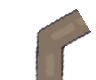
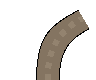
completed

Changed region(s): [[0.3438, 0.1, 0.875, 1.0], [0.5938, 0.25, 0.9688, 1.0]]

diff --git a/hlrData.py b/hlrData.py
@@ -136,7 +136,7 @@ unitsParameters = 	{	'' 				:	None,
 												'exp'		: 0,
 												'skills'	: [],
 												'weapons'	: ['gewehr98', 'lugerp08', 'bayonet' , None],
-												'icon' : pygame.image.load('gfx/units/german_infantry.png'), 
+												'icon'		: pygame.image.load('gfx/units/infantry.png'), 
 											},
 						'EC_infantry'	:	{	'name'		: 'Infantry',
 												'country'	: 'France',
@@ -148,7 +148,7 @@ unitsParameters = 	{	'' 				:	None,
 												'exp'		: 0,
 												'skills'	: [],
 												'weapons'	: ['leeEnfield', 'revolveur', 'bayonet', None],
-												'icon' : pygame.image.load('gfx/units/french_infantry.png') 
+												'icon'		 : pygame.image.load('gfx/units/infantry.png') 
 											},
 						'CP_eliteInf'	:	{	'name'		: 'Elite Infantry',
 												'country'	: 'Germany',
@@ -160,7 +160,7 @@ unitsParameters = 	{	'' 				:	None,
 												'exp'		: 0,
 												'skills'	: [],
 												'weapons'	: ['maxim', 'trenchKnife', None, None],
-												'icon' : pygame.image.load('gfx/units/german_eliteInfantry.png')
+												'icon'		 : pygame.image.load('gfx/units/eliteInfantry.png')
 											},
 						'EC_eliteInf'	:	{	'name'		: 'Elite Infantry',
 												'country'	: 'France',
@@ -172,7 +172,7 @@ unitsParameters = 	{	'' 				:	None,
 												'exp'		: 0,
 												'skills'	: [],
 												'weapons'	: ['wickers', 'trenchKnife', None, None],
-												'icon' : pygame.image.load('gfx/units/french_eliteInfantry.png') 
+												'icon' 		: pygame.image.load('gfx/units/eliteInfantry.png') 
 											},
 						'CP_cavalry'	:	{	'name'		: 'Cavalry',
 												'country'	: 'Germany',
@@ -184,7 +184,7 @@ unitsParameters = 	{	'' 				:	None,
 												'exp'		: 0,
 												'skills'	: [],
 												'weapons'	: ['gewehr98', 'sabre', None, None],
-												'icon' : pygame.image.load('gfx/units/german_cavalry.png') 
+												'icon'		 : pygame.image.load('gfx/units/cavalry.png') 
 											},
 						'EC_cavalry'	:	{	'name'		: 'Cavalry',
 												'country'	: 'France',
@@ -196,7 +196,7 @@ unitsParameters = 	{	'' 				:	None,
 												'exp'		: 0,
 												'skills'	: [],
 												'weapons'	: ['leeEnfield', 'sabre', None, None],
-												'icon' : pygame.image.load('gfx/units/french_cavalry.png') 
+												'icon'		 : pygame.image.load('gfx/units/cavalry.png') 
 											},
 						'CP_lArtillery'	:	{	'name'		: 'Light Artillery',
 												'country'	: 'Germany',
@@ -208,7 +208,7 @@ unitsParameters = 	{	'' 				:	None,
 												'exp'		: 0,
 												'skills'	: [],
 												'weapons'	: ['feldkanone16', None, None, None],
-												'icon' : pygame.image.load('gfx/units/german_lightArtillery.png') 
+												'icon'		 : pygame.image.load('gfx/units/lightArtillery.png') 
 											},
 						'EC_lArtillery'	:	{	'name'		: 'Light Artillery',
 												'country'	: 'France',
@@ -220,7 +220,7 @@ unitsParameters = 	{	'' 				:	None,
 												'exp'		: 0,
 												'skills'	: [],
 												'weapons'	: ['m1902', None, None, None],
-												'icon' : pygame.image.load('gfx/units/french_lightArtillery.png') 
+												'icon'		 : pygame.image.load('gfx/units/lightArtillery.png') 
 											},
 						'CP_mArtillery'	:	{	'name'		: 'Medium Artillery',
 												'country'	: 'Germany',
@@ -232,7 +232,7 @@ unitsParameters = 	{	'' 				:	None,
 												'exp'		: 0,
 												'skills'	: [],
 												'weapons'	: ['lefh', None, None, None],
-												'icon' : pygame.image.load('gfx/units/german_mediumArtillery.png') 
+												'icon'		 : pygame.image.load('gfx/units/mediumArtillery.png') 
 											},
 						'EC_mArtillery'	:	{	'name'		: 'Medium Artillery',
 												'country'	: 'France',
@@ -244,7 +244,7 @@ unitsParameters = 	{	'' 				:	None,
 												'exp'		: 0,
 												'skills'	: [],
 												'weapons'	: ['canon75', None, None, None],
-												'icon' : pygame.image.load('gfx/units/french_mediumArtillery.png') 
+												'icon' 		: pygame.image.load('gfx/units/mediumArtillery.png') 
 											},
 						'CP_hArtillery'	:	{	'name'		: 'Heavy Artillery',
 												'country'	: 'Germany',
@@ -256,7 +256,7 @@ unitsParameters = 	{	'' 				:	None,
 												'exp'		: 0,
 												'skills'	: [],
 												'weapons'	: ['morser', None, None, None],
-												'icon' : pygame.image.load('gfx/units/german_heavyArtillery.png') 
+												'icon'		 : pygame.image.load('gfx/units/heavyArtillery.png') 
 											},
 						'EC_hArtillery'	:	{	'name'		: 'Heavy Artillery',
 												'country'	: 'France',
@@ -268,7 +268,7 @@ unitsParameters = 	{	'' 				:	None,
 												'exp'		: 0,
 												'skills'	: [],
 												'weapons'	: ['canon155', None, None, None],
-												'icon' : pygame.image.load('gfx/units/french_heavyArtillery.png') 
+												'icon'		 : pygame.image.load('gfx/units/heavyArtillery.png') 
 											},
 						'CP_supplyCar' 	:	{	'name'		: 'SupplyCar',
 												'country'	: 'Germany',
@@ -280,7 +280,7 @@ unitsParameters = 	{	'' 				:	None,
 												'exp'		: 0,
 												'skills'	: [],
 												'weapons'	: [None, None, None, None],
-												'icon' : pygame.image.load('gfx/units/german_supplyCar.png') 
+												'icon' 		: pygame.image.load('gfx/units/supplyCar.png') 
 											},
 						'EC_supplyCar' 	:	{	'name'		: 'SupplyCar',
 												'country'	: 'France',
@@ -292,7 +292,7 @@ unitsParameters = 	{	'' 				:	None,
 												'exp'		: 0,
 												'skills'	: [],
 												'weapons'	: [None, None, None, None],
-												'icon' : pygame.image.load('gfx/units/french_supplyCar.png')
+												'icon'		 : pygame.image.load('gfx/units/supplyCar.png')
 											},
 						'CP_bunker'	 	:	{	'name'		: 'Bunker',
 												'country'	: 'Germany',
@@ -304,7 +304,7 @@ unitsParameters = 	{	'' 				:	None,
 												'exp'		: 0,
 												'skills'	: [],
 												'weapons'	: ['feldkanone16', None, None, None],
-												'icon' : pygame.image.load('gfx/units/german_bunker.png') 
+												'icon'		 : pygame.image.load('gfx/units/bunker.png') 
 											},
 						'EC_bunker'	 	:	{	'name'		: 'Bunker',
 												'country'	: 'France',
@@ -316,7 +316,7 @@ unitsParameters = 	{	'' 				:	None,
 												'exp'		: 0,
 												'skills'	: [],
 												'weapons'	: ['m1902', None, None, None],
-												'icon' : pygame.image.load('gfx/units/french_bunker.png') 
+												'icon' 		: pygame.image.load('gfx/units/bunker.png') 
 											}
 					}
 
@@ -478,6 +478,15 @@ weaponsParameters = 	{	'bayonet' 	:		{	'name'		: 'Bayonet',
 													'picture'	: pygame.image.load('gfx/weapons/canon155.png'), 
 												}
 						}
+
+def rot_center(image, angle):
+    """rotate an image while keeping its center and size"""
+    orig_rect = image.get_rect()
+    rot_image = pygame.transform.rotate(image, angle)
+    rot_rect = orig_rect.copy()
+    rot_rect.center = rot_image.get_rect().center
+    rot_image = rot_image.subsurface(rot_rect).copy()
+    return rot_image
 
 
 class colorList:

diff --git a/level.py b/level.py
@@ -2,6 +2,9 @@ import sys
 import json
 import time
 import pygame
+import numpy as np
+from PIL import Image
+import pygame.surfarray as surfarray
 from hlrData import *
 
 # --- Variables / Ressources ----------------------------------------------------------------------
@@ -47,18 +50,48 @@ class Unit():
 		if key:
 			data = unitsParameters[key]
 			self.name = data['name']
+			self.country = data['country']
+			self.armour = data['armour']
+			self.speed = data['speed']
+			self.weight = data['weight']
+			self.sight = data['sight']
+			self.fuel = data['fuel']
+			self.experience = 0
+			self.skills = []
+			self.weapons = []
 			self.maxSize = 10		# all units size 10?
 			self.currentSize = 10
-			self.fuel = data['fuel']
-			self.speed = data['speed']
-			self.sight = data['sight']
-			self.weapons = []
+			self.faction = 'CentralPowers' if self.country in ['Germany', 'Austria', 'Bulgaria', 'Ottoman'] else 'EntenteCordial'
 			for w in data['weapons']:
 				if w:
 					self.weapons.append(Weapon(w))
 				else:
 					self.weapons.append(None)
-			self.mapIcon = data['icon']
+			rawIcon = data['icon']
+			# if central powers, rotate and colourize icon
+			if self.faction == 'CentralPowers':
+				arr = pygame.surfarray.pixels3d(rawIcon)
+				for i in range(48):
+					for j in range(48): # loop over the 2d array
+						if np.array_equal(arr[i, j], [164, 132, 112]):
+							arr[i, j] = [72, 88, 52]
+						elif np.array_equal(arr[i, j], [80, 68, 52]):
+							arr[i, j] = [24, 40, 20]
+						elif np.array_equal(arr[i, j], [216, 188, 160]):
+							arr[i, j] = [148, 168, 100]
+						elif np.array_equal(arr[i, j], [144, 112,  88]):
+							arr[i, j] = [56, 72, 36]
+						elif np.array_equal(arr[i, j], [180, 148, 124]):
+							arr[i, j] = [88, 104, 36]
+			rawIcon = pygame.transform.scale2x(rawIcon)
+			self.allIcons = [	rot_center(rawIcon, 60),
+								rot_center(rawIcon, 120), 
+								rot_center(rawIcon, 180), 			
+								rot_center(rawIcon, 240), 
+								rot_center(rawIcon, 300), 
+								rawIcon
+							 ]
+			self.mapIcon = self.allIcons[2] if self.faction == 'CentralPowers' else self.allIcons[5]
 
 
 
@@ -137,7 +170,8 @@ class Map(list):
 				forskydning = 71 if (x % 2) != 0 else 0
 				self.parent.display.blit(square.background, [self.parent.viewDsp[0] + (y * 142 + forskydning), self.parent.viewDsp[1] + (x * 40)])
 				if square.infra:	self.parent.display.blit(square.infra, [self.parent.viewDsp[0] + (y * 142 + forskydning), self.parent.viewDsp[1] + (x * 40)])
-				if square.unit:		self.parent.display.blit(square.unit.mapIcon, [self.parent.viewDsp[0] + (y * 142 + forskydning), self.parent.viewDsp[1] + (x * 40)])
+				if square.unit:		self.parent.display.blit(square.unit.mapIcon, 
+					[self.parent.viewDsp[0] + (y * 142 + forskydning), self.parent.viewDsp[1] + (x * 40) - 8])
 				if developerMode:
 					text = self.parent.devModeFont.render(str(x + 1) + '/' + str(y + 1), True, (255,0,0))
 					image = pygame.Surface((96, 80), pygame.SRCALPHA)

diff --git a/main.py b/main.py
@@ -108,7 +108,7 @@ class Main():
 		# unit
 		if square.unit:
 			self.display.blit(self.map.blankHex, [1144, 573])
-			self.display.blit(square.unit.mapIcon, [1144, 573])
+			self.display.blit(square.unit.mapIcon, [1144, 565])
 			self.display.blit(self.map.cursorGfx, [1132, 563])
 			pygame.draw.rect(self.display, colors.almostBlack, (1124, 763, 662, 58), 4)							# weapons borders 1
 			pygame.draw.rect(self.display, colors.almostBlack, (1124, 871, 662, 58), 4)							# weapons borders 2
@@ -138,9 +138,6 @@ class Main():
 					self.display.blit(powerText, rPowerText)
 				else:
 					self.display.blit(self.map.noWeapon, [1128, yCoords[y]])
-
-
-
 #		print('Cursor on Hex:', mapCursor)
 #		print(self.test)
 
